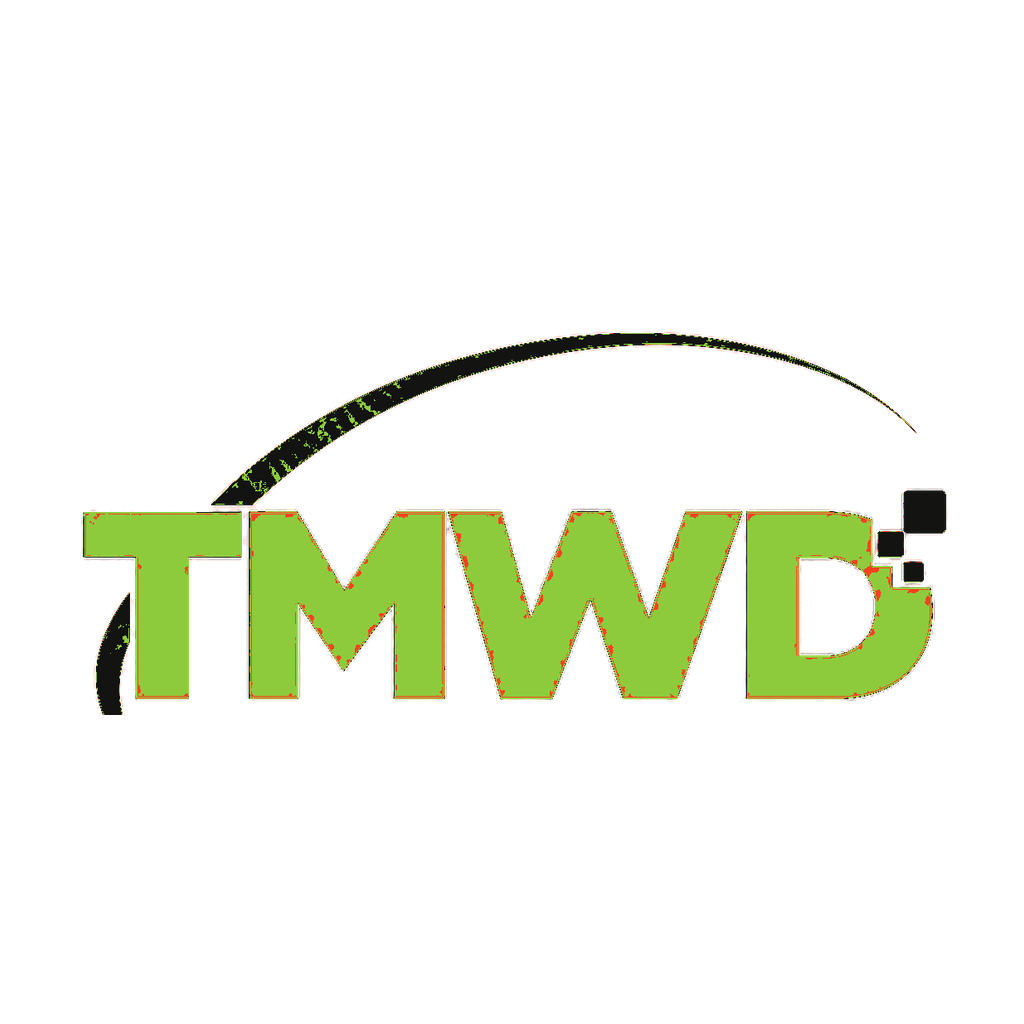
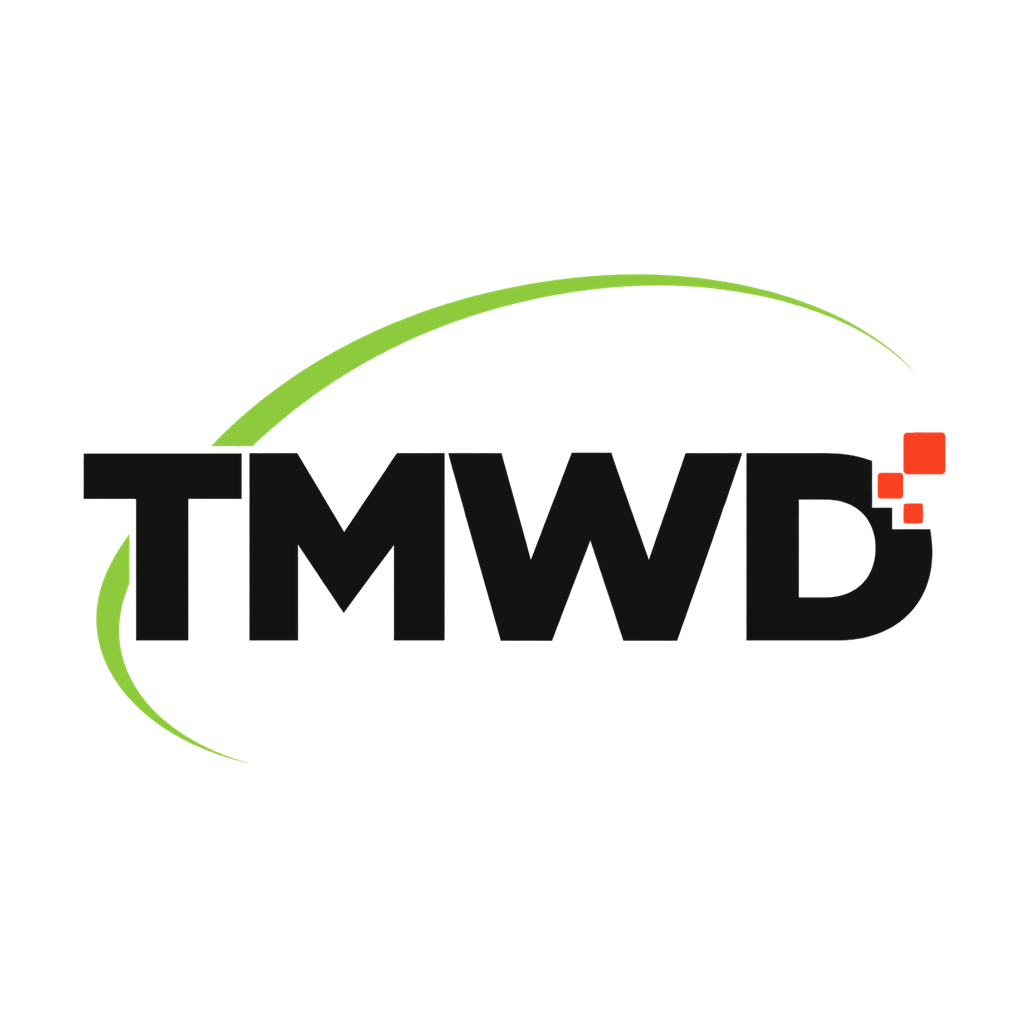
Fix generated brand asset variants

diff --git a/assets/brand/README.md b/assets/brand/README.md
@@ -1,16 +1,16 @@
 # TMWD Works Brand Assets
 
-Finalized public brand assets for TMWD Works.
+Public brand assets for TMWD Works.
 
 ## Files
 
 - `tmwdworks-logo.png` — finalized raster reference on white
-- `tmwdworks-logo-transparent.png` — transparent-background logo
-- `tmwdworks-logo.svg` — vector-traced logo for scalable use
+- `tmwdworks-logo-transparent.png` — cleaned transparent-background logo
+- `tmwdworks-logo.svg` — flat-color vector trace for scalable use
 - `tmwdworks-logo-monochrome.png` — monochrome transparent PNG
 - `tmwdworks-logo-monochrome.svg` — monochrome vector version
-- `tmwdworks-icon.png` — square/compact icon for profile images
-- `tmwdworks-icon.svg` — scalable compact icon
+- `tmwdworks-icon.png` — square compact TMWD icon for profile images
+- `tmwdworks-icon.svg` — scalable square compact icon
 - `brand-colors.json` — fixed brand color values
 
 ## Brand colors
@@ -22,10 +22,11 @@ Finalized public brand assets for TMWD Works.
 | Vermilion digital accent | `#F94122` |
 | White background | `#FFFFFF` |
 
-The lime and vermilion values are fixed from the finalized visual direction.
-
 ## Notes
 
-The SVG files are vector traces of the finalized raster artwork. They scale without raster pixelation, but if the logo is later professionally redrawn, that redrawn SVG should replace the traced master.
+The SVG assets are clean flat-color vector traces derived from the finalized raster artwork.
+They do not contain a colored background rectangle.
+
+The transparent PNG and icon assets use the same fixed palette as the SVG files.
 
 These assets are brand materials and are not released under an open-source license.
